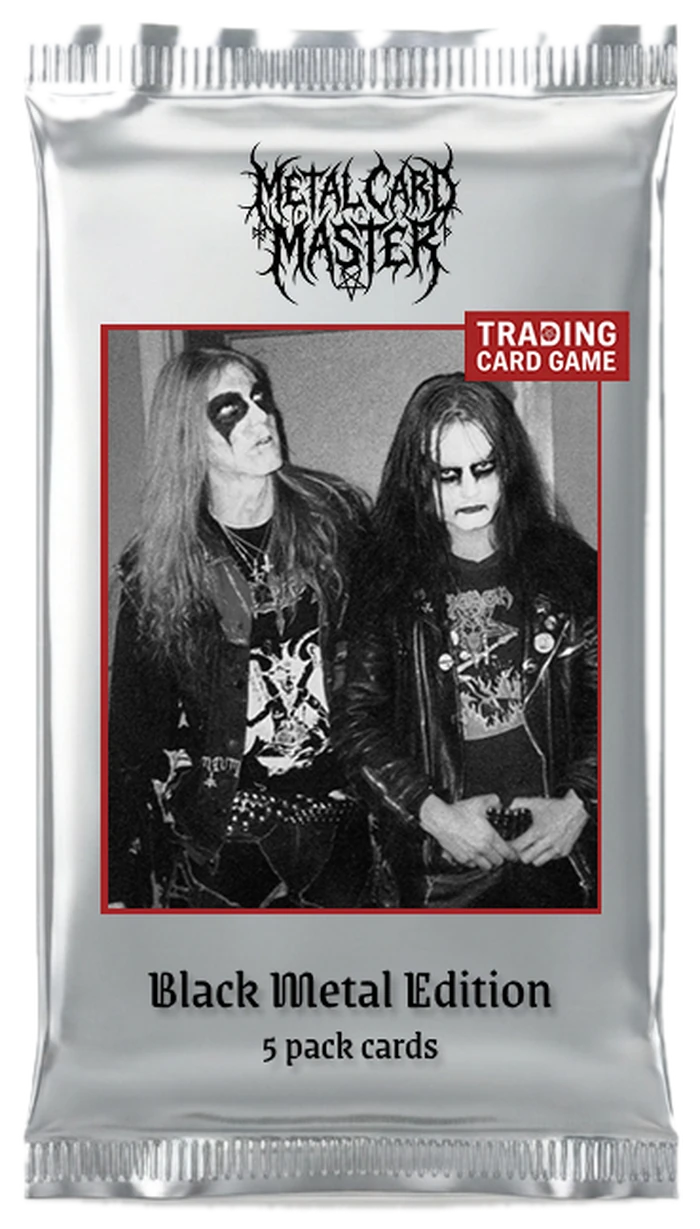
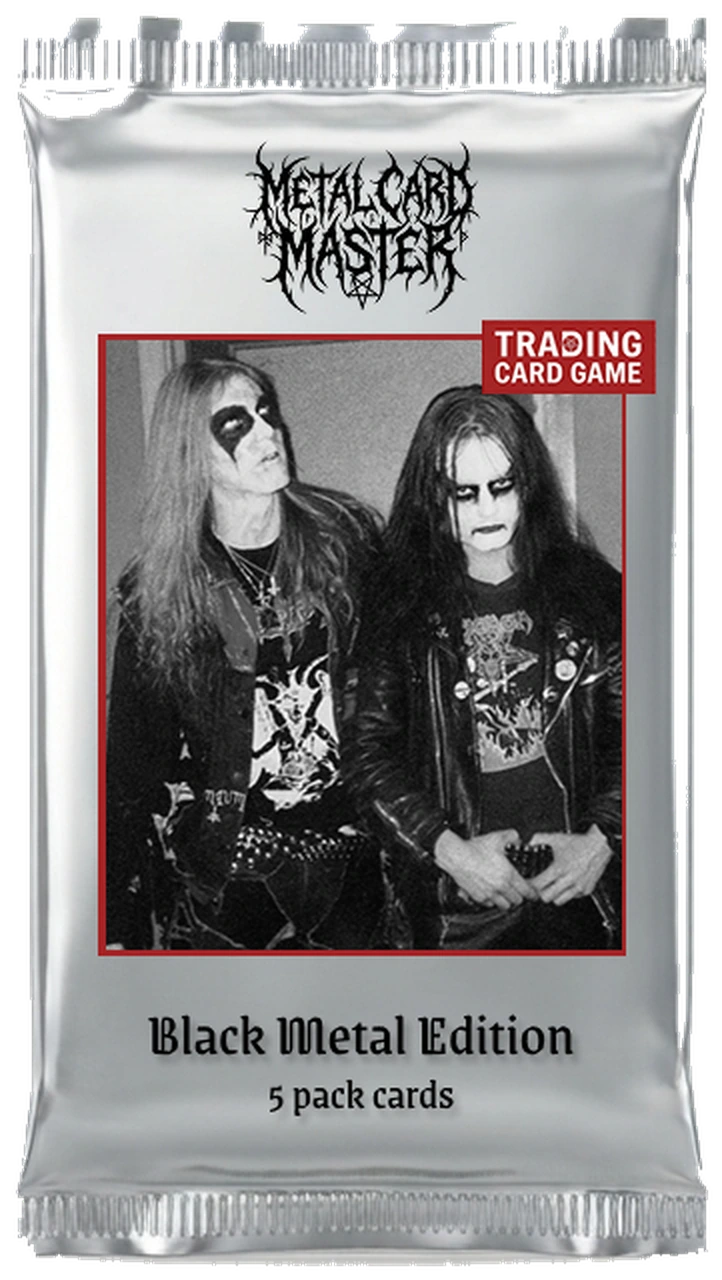
Corrige la bande grise résiduelle en bas du pack et la résolution
La zone sous le pack a un dégradé d'ombre de contact très progressif
(gris clair vers blanc sur ~25px) que le seuillage automatique ne
pouvait pas couper proprement : trop strict il laissait un résidu
flou, trop large il grignotait le bas du pack. Détection du vrai bord
physique (dernier minimum local de luminosité par colonne, qui suit
le galbe du pack) et coupe nette de tout ce qui est en dessous —
l'ombre de contact est entièrement retirée plutôt que mal découpée.

Le pack ne fait que ~345x624px dans la source (scène large), d'où
la pixellisation signalée une fois agrandi : recadrage serré avant
mise à l'échelle (x2 au lieu de forcer 700px) pour rester plus proche
de la résolution native de détail.

Claude-Session: https://claude.ai/code/session_011USd2GFXDhdV5wb4oV88fb

Changed region(s): [[0.0, 0.0, 0.99, 0.9894]]

diff --git a/index.html b/index.html
@@ -486,7 +486,7 @@ body::after {
    étirée. Les éléments .booster-brand-mark/.booster-count/.booster-art/.booster-edition
    restent dans le DOM (hidden) uniquement pour que startOpening() continue de fonctionner
    sans changement (cf. plus bas, pc-full-art reprend la même logique). */
-.booster:has(.booster-full-art) { aspect-ratio: 0.5696; }
+.booster:has(.booster-full-art) { aspect-ratio: 0.5641; }
 .booster:has(.booster-full-art) .booster-body {
   clip-path: none; box-shadow: none; background: none;
 }
